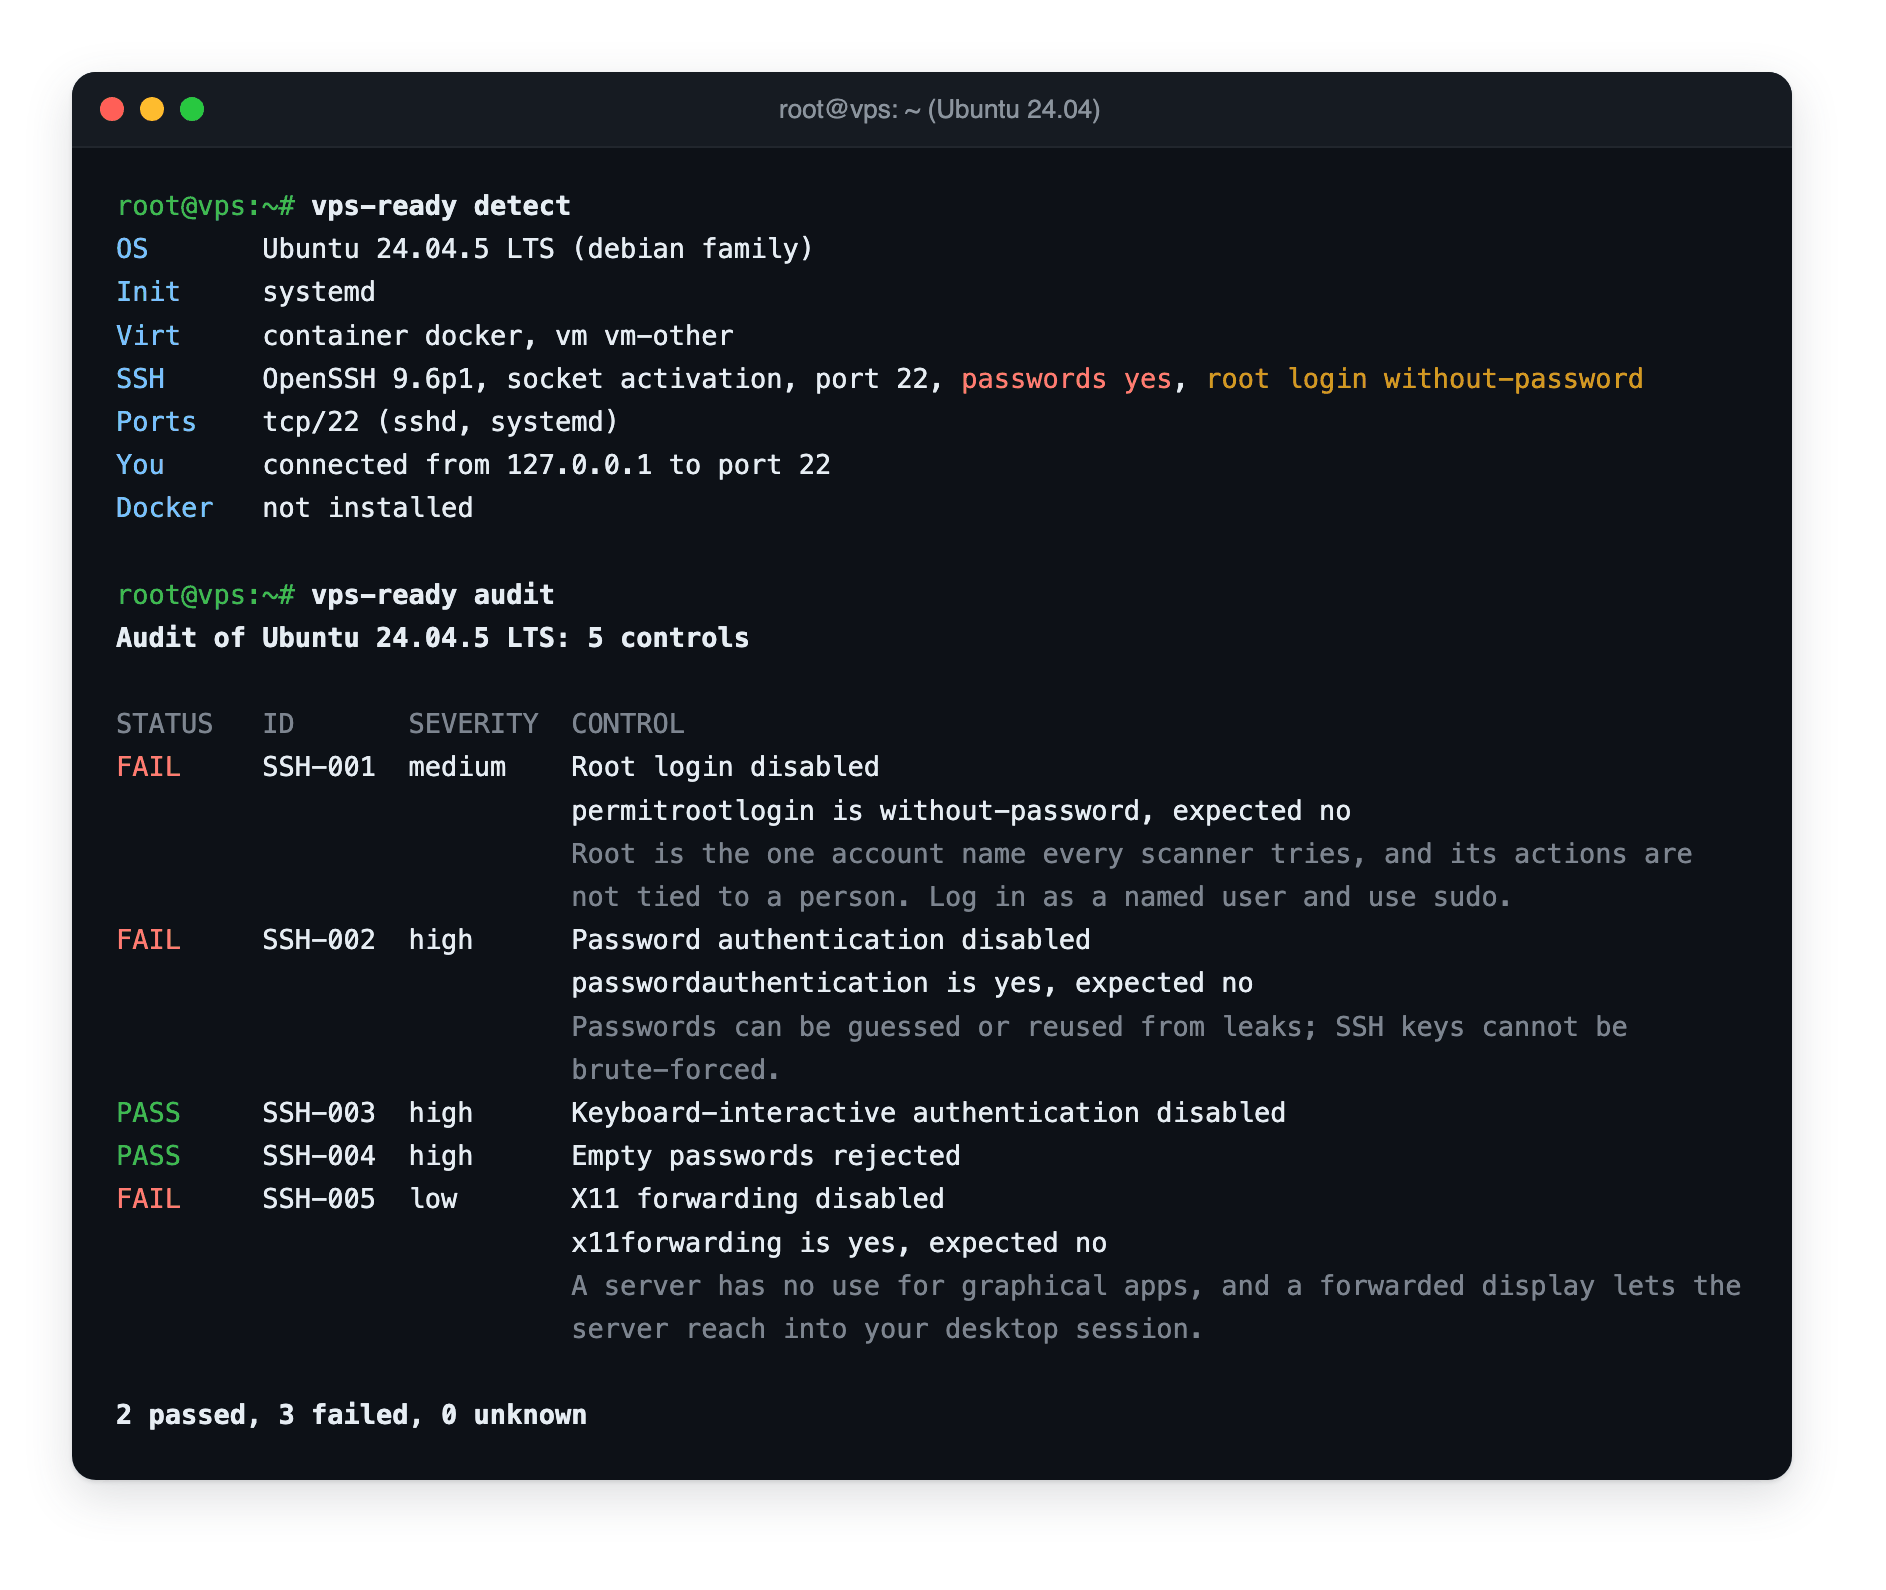
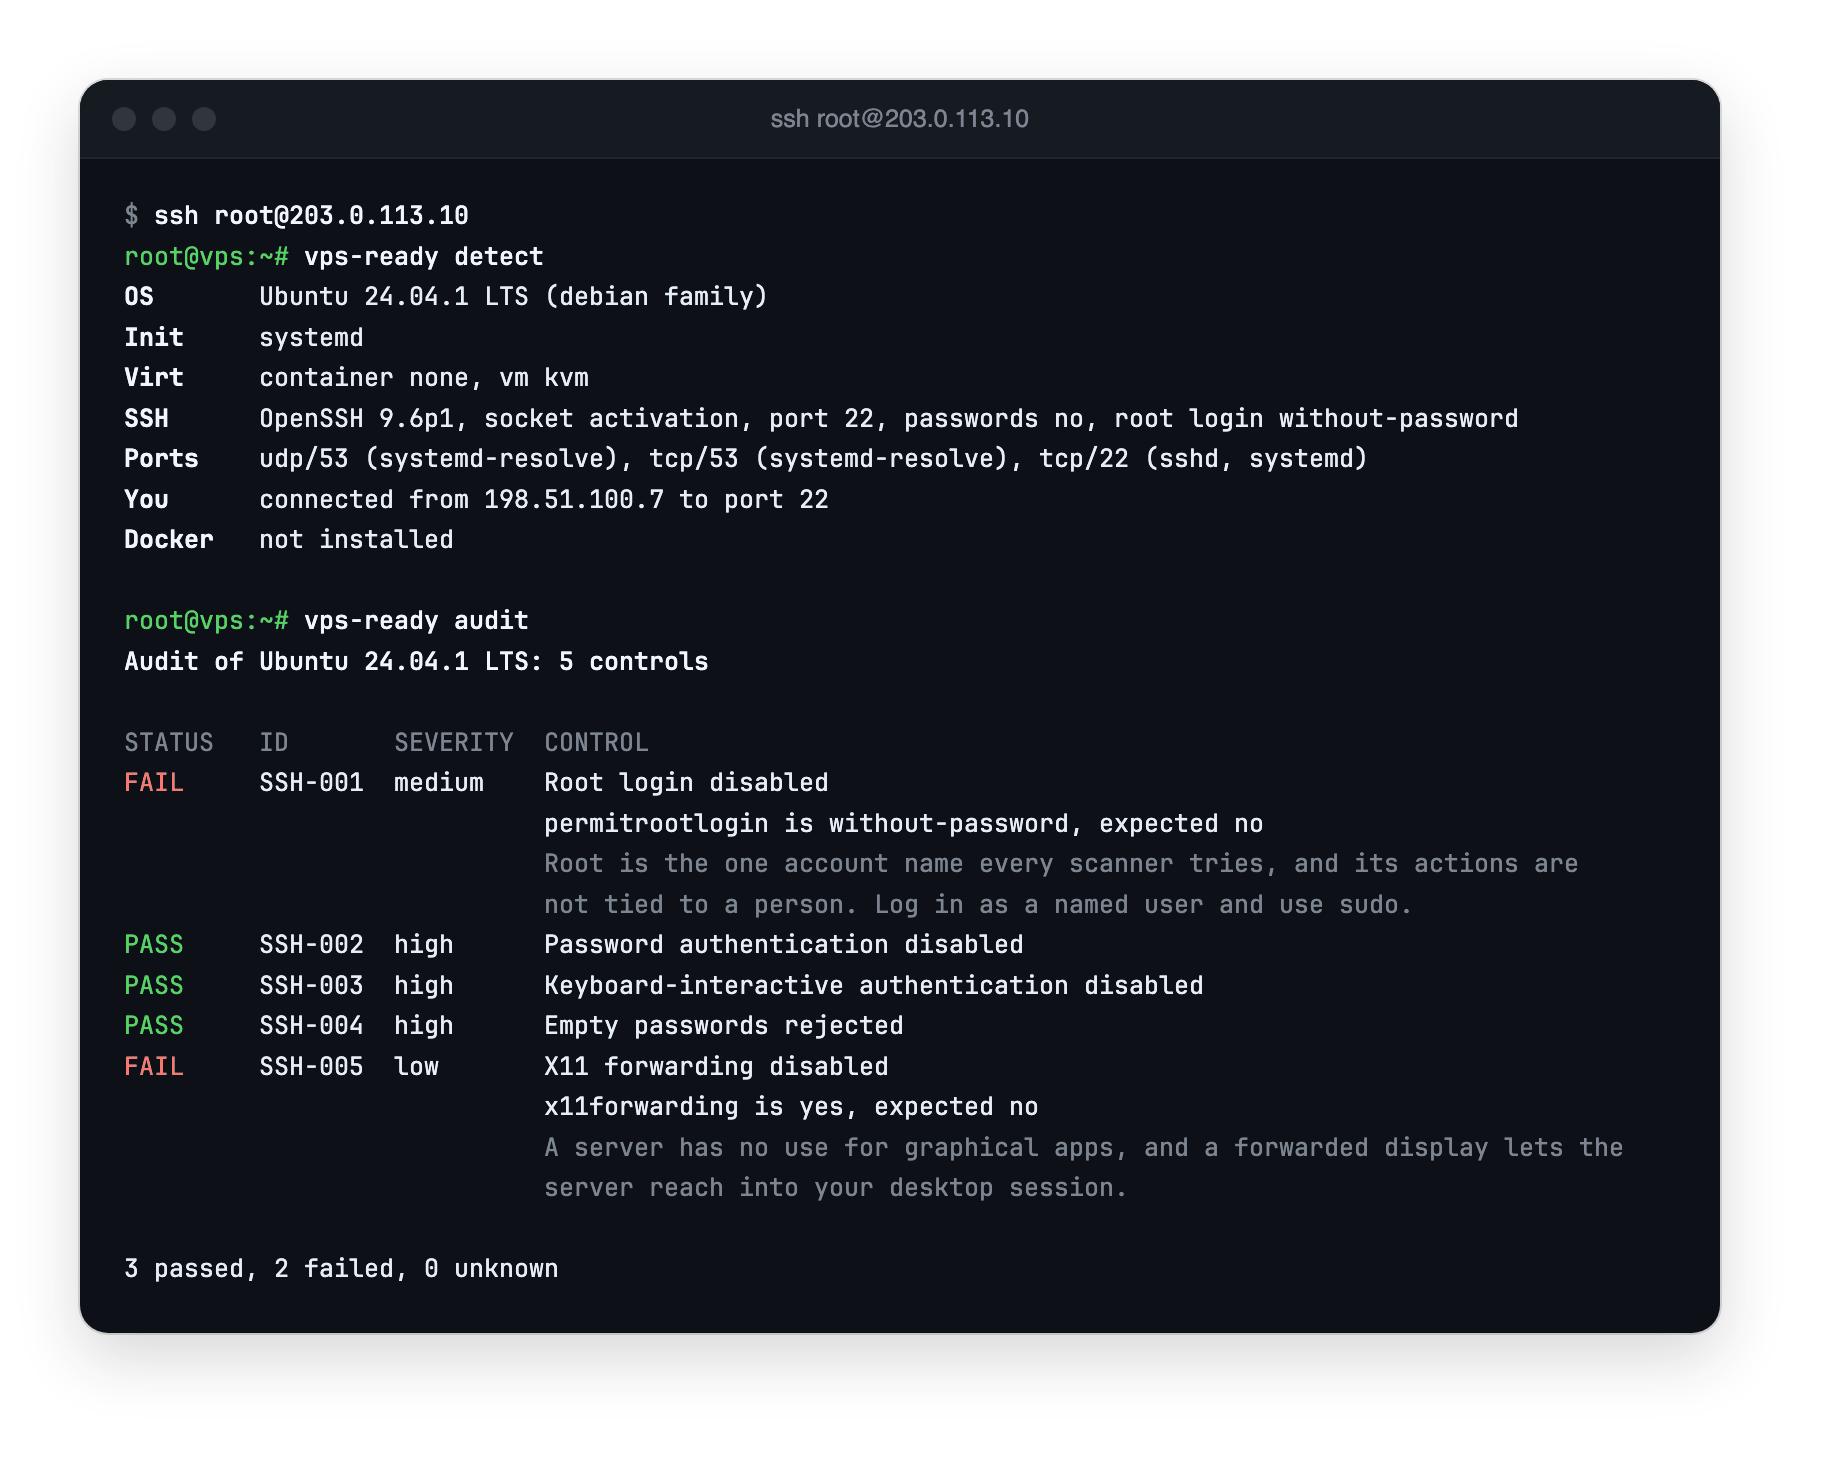
docs(readme): demo of a typical VPS session

diff --git a/README.md b/README.md
@@ -47,8 +47,8 @@ On the server, as root. Installation is three steps on purpose: download, read, 
 ```
 
 <p align="center">
-  <img src="assets/demo.png" alt="vps-ready detect and vps-ready audit on Ubuntu 24.04: OS, init, virtualization, SSH and port facts, then five SSH controls with 2 passed and 3 failed, each failure showing the value found and why it matters" width="88%">
-  <br><sub>Real output on Ubuntu 24.04, in a systemd test container.</sub>
+  <img src="assets/demo.png" alt="An SSH session on an Ubuntu 24.04 VPS: vps-ready detect shows the OS, init system, KVM, SSH settings, open ports and the admin's connection; vps-ready audit then checks five SSH controls, 3 passed and 2 failed, each failure showing the value found and why it matters" width="88%">
+  <br><sub>Example session on an Ubuntu 24.04 VPS.</sub>
 </p>
 
 The command is also installed as `vpsready`, without the hyphen. With Rust installed you can build from source instead: `cargo install vps-ready --version 0.1.0-alpha.2 --locked`. Signed packages for apt, dnf and apk are planned for v0.5. The trust model of each install channel is in [the release doc](docs/release.md).
